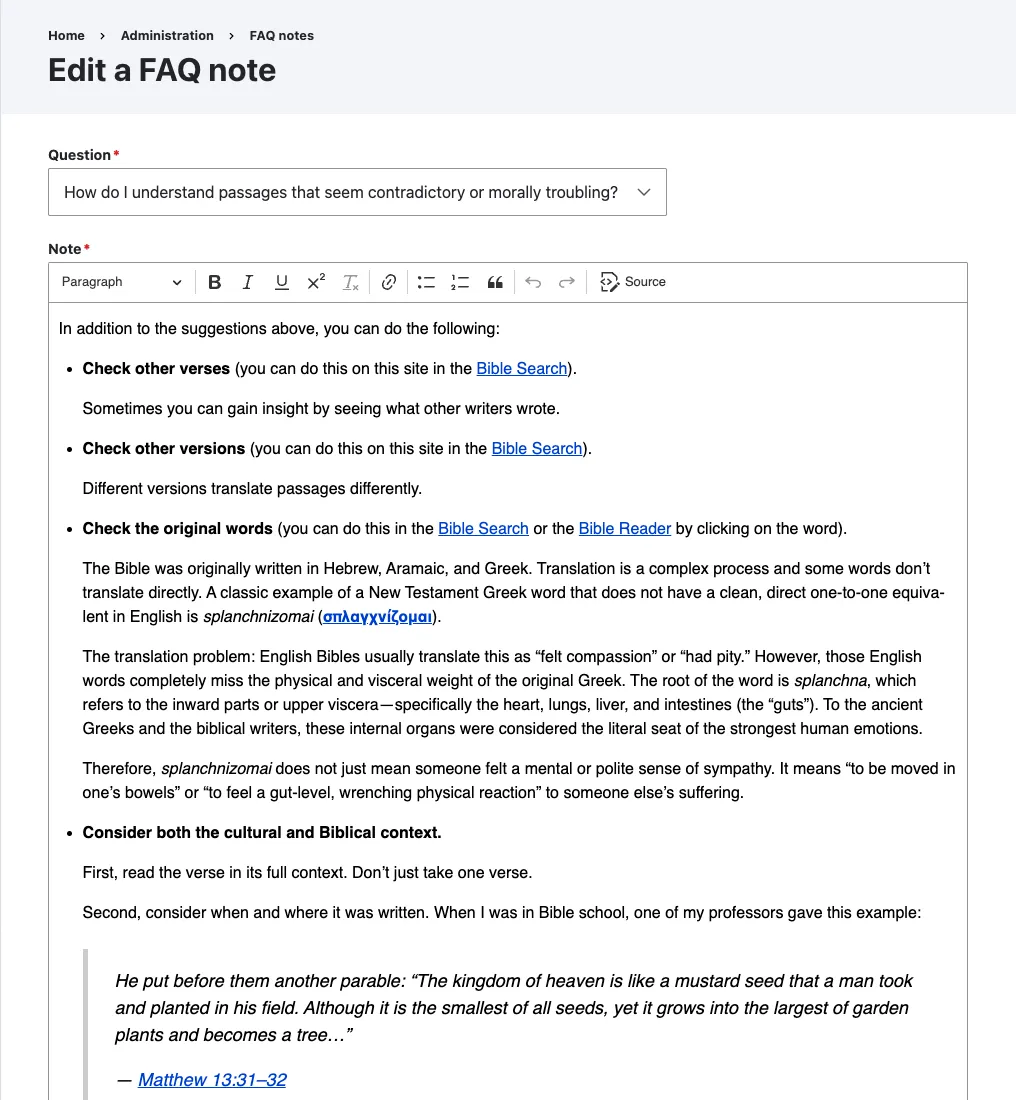
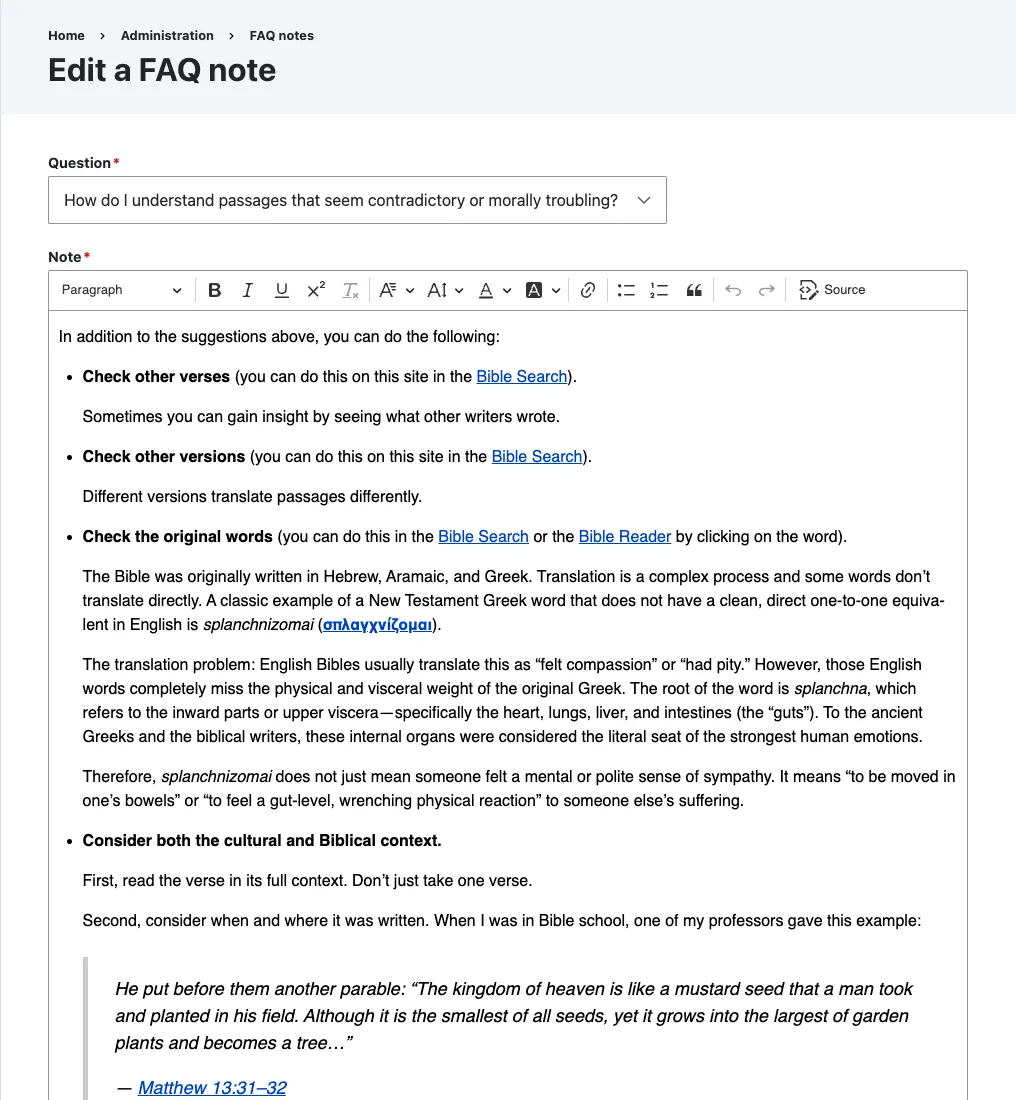
Admin guide: pictures for Signatures, Tasks and Scheduled tasks
Six new pictures (the Signatures list and editor, the Tasks list, the
Communion task form on the first Sunday with its reminders, Schedule,
and Scheduled tasks with the Reminders column) and six retaken for the
screens changed on 2026-11-19 (the admin menu, a group's page, Send a
message and a FAQ note with the Font buttons, Add a scheduled email and
Email a member with the Signature select). Made-up people only, taken
from the local container stack; their descriptions updated.

Changed region(s): [[0.0305, 0.2164, 0.9459, 1.0], [0.0305, 0.1236, 0.6407, 0.2164], [0.7628, 0.2473, 0.8543, 0.2782]]

diff --git a/CLAUDE.md b/CLAUDE.md
@@ -408,6 +408,8 @@ A web app that answers Bible questions using AI/ML.
 - Added 2026-11-16 at the owner's request ("do the same thing for the admin site ... go through all the screens we added (we don't need to document Drupal) and document them"). **Admin guide** in the admin menu (first, A to Z), `/admin/guide`, `AdminGuideController`, library `bible_admin/admin_guide` (`css/admin-guide.css`). The words are in **`help/admin-guide.yml`** (an intro and 13 sections: Getting around (the roles), Bibles, Commentaries/Devotionals/Other books, Christian music, Maps, Uploading several files at once, Verse a day pictures, Groups (members, the three sends, scheduled emails, the leader, Prayer Wall requests), Conversations and Prayer Wall, FAQ notes, Site users, Site settings, Backup and restore), each with the **permissions** that let someone use its screen: a section shows only to those who have one (a Group leader sees Getting around and Groups only). The route is open to anyone with one of the module's permissions. A picture is written `<img data-guide="name" alt="...">` and becomes a link to `help/images/name.webp` at full size; the YAML is the module's own file, so it is used as written (not filtered).
 - **The pictures** (`help/images`, 35 WebP, about 1.6 MB) were taken on 2026-11-16 from local Drupal with made-up people only (example.org; Site settings with made-up email server values typed in for the picture, never saved), through the relay to the real tools; the scripts and how to retake them are in the owner's Documents, "Bible and Beyond - Admin guide pictures 2026-11-16" (README). **Keep a section true when its screen changes, and retake its picture.** Checked in DDEV on 2026-11-16: every picture loads, the administrator sees all 13 sections and a Group leader two. **Retaken on 2026-11-17** for the screens changed that day (`group`, `group-send-message`, `group-schedule`, `group-edit`, `site-users`, `site-user-edit`, and a new `group-member-email`; 36 pictures now), from local Drupal with made-up people ("Bible and Beyond - Admin guide pictures 2026-11-17", README); checked: all 36 load.
 
+- **Retaken on 2026-11-19** for the screens added or changed that day: new `signatures`, `signature-edit`, `tasks`, `task-edit`, `task-schedule`, `scheduled-tasks` (in the Signatures, Tasks and Scheduled tasks sections) and new versions of `admin-menu`, `group`, `group-send-message`, `group-schedule`, `group-member-email` and `faq-note-edit` (42 pictures now). Taken from the **local container stack** (http://localhost:8081, the real tools, no relay) with made-up people; scripts and steps in the owner's Documents, "Bible and Beyond - Admin guide pictures 2026-11-19" (README). The stack's "security update available" message is hidden in them. Checked: all 42 load on /admin/guide in the stack.
+
 ## The admin menu is in alphabetical order
 - At the owner's request (2026-11-16) every entry under Administration (this module's pages and Drupal's own: Appearance, Configuration, People, Structure ...) is sorted by title, in the left-hand menu and on /admin: `bible_admin_menu_links_discovered_alter` in `bible_admin.module` sets their weights from -50 up in title order, so a new page needs no weight of its own (the `weight:` lines in `bible_admin.links.menu.yml` are overridden). The Navigation module's own shortcuts at the top (Create, Blocks, Content, Files) are a separate section and keep their place. A change made by hand in Structure > Menus still wins. Checked in DDEV on 2026-11-16.
 
